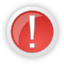
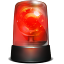
minor fixes to the UI

diff --git a/app/views/home/main-activity.html b/app/views/home/main-activity.html
@@ -5,44 +5,46 @@
       <span i18n="mainActivities"></span>
     </accordion-heading>
 
-      <div class="col-md-3 btn">
-        <a ui-sref="stockCountHome">
-          <img src="images/dashboard-icons/stock-count.png" class="img-rounded">
-          <span i18n="stockCount" class="main-activity-link"></span>
-        </a>
-      </div>
+    <div class="container-fluid">
+      <div class="row">
+        <div class="col-md-3 btn">
+          <a ui-sref="stockCountHome">
+            <img src="images/dashboard-icons/stock-count.png" class="img-rounded">
+            <span i18n="stockCount" class="main-activity-link"></span>
+          </a>
+        </div>
 
-      <div class="col-md-3 btn">
-        <a ui-sref="stockCountStepForm">
-          <img src="images/dashboard-icons/add-stock-count.png" class="img-rounded">
-          <span i18n="addStockCount" class="main-activity-link"></span>
-        </a>
-      </div>
+        <div class="col-md-3 btn">
+          <a ui-sref="stockCountStepForm">
+            <img src="images/dashboard-icons/add-stock-count.png" class="img-rounded">
+            <span i18n="addStockCount" class="main-activity-link"></span>
+          </a>
+        </div>
 
-      <div class="col-md-3 btn">
-        <a ui-sref="wasteCountForm">
-          <img src="images/dashboard-icons/add-waste-count.png" class="img-rounded">
-          <span i18n="addWasteCount" class="main-activity-link"></span>
-        </a>
-      </div>
+        <div class="col-md-3 btn">
+          <a ui-sref="wasteCountForm">
+            <img src="images/dashboard-icons/add-waste-count.png" class="img-rounded">
+            <span i18n="addWasteCount" class="main-activity-link"></span>
+          </a>
+        </div>
 
-      <div class="col-md-3 btn">
-        <a ui-sref="broadcastStockOut">
-        <span>
-          <i class="fa fa-exclamation-circle fa-4x alert-danger" style="background-color: transparent"></i>
-        </span>
-          <span i18n="stockOutBroadcast" class="main-activity-link"></span>
-        </a>
-      </div>
+        <div class="col-md-3 btn">
+          <a ui-sref="broadcastStockOut">
+            <img src="images/dashboard-icons/stock-out-broadcast.png" class="img-rounded">
+            <span i18n="stockOutBroadcast" class="main-activity-link"></span>
+          </a>
+        </div>
 
-      <div class="col-md-3 btn">
-        <a ui-sref="syncStockCount.detail">
+        <div class="col-md-3 btn">
+          <a ui-sref="syncStockCount.detail">
         <span>
           <i class="fa fa-cloud fa-4x"></i>
         </span>
-          <span i18n="syncStockCount" class="main-activity-link"></span>
-        </a>
+            <span i18n="syncStockCount" class="main-activity-link"></span>
+          </a>
+        </div>
       </div>
+    </div>
 
   </accordion-group>
 
@@ -51,29 +53,31 @@
       <span><i class="fa fa-tasks"></i></span>
       <span i18n="more"></span>
     </accordion-heading>
-    <div class="col-md-12">
+    <div class="container-fluid">
+      <div class="row">
 
-      <div class="col-md-3 btn">
-        <a ui-sref="appConfig.edit">
-          <img src="images/dashboard-icons/app-config.png" class="img-rounded">
-          <span i18n="appConfig" class="main-activity-link"></span>
-        </a>
+        <div class="col-md-3 btn">
+          <a ui-sref="appConfig.edit">
+            <img src="images/dashboard-icons/app-config.png" class="img-rounded">
+            <span i18n="appConfig" class="main-activity-link"></span>
+          </a>
+        </div>
+
+        <div class="col-md-3 btn">
+          <a ui-sref="counterSamples">
+            <img src="images/dashboard-icons/counter-samples.png" class="img-rounded">
+            <span i18n="counterSample" class="main-activity-link"></span>
+          </a>
+        </div>
+
+        <div class="col-md-3 btn">
+          <a ui-sref="clearStorage">
+            <i class="fa fa-trash-o fa-4x btn-danger"></i>
+            <span i18n="clearStorage" class="main-activity-link"></span>
+          </a>
+        </div>
+
       </div>
-
-      <div class="col-md-3 btn">
-        <a ui-sref="counterSamples">
-          <img src="images/dashboard-icons/counter-samples.png" class="img-rounded">
-          <span i18n="counterSample" class="main-activity-link"></span>
-        </a>
-      </div>
-
-      <div class="col-md-3 btn">
-        <a ui-sref="clearStorage">
-          <i class="fa fa-trash-o fa-5-3x btn-danger"></i>
-          <span i18n="clearStorage" class="main-activity-link"></span>
-        </a>
-      </div>
-
     </div>
 
   </accordion-group>

diff --git a/app/styles/main.css b/app/styles/main.css
@@ -178,5 +178,6 @@ input[type=number]::-webkit-inner-spin-button, input[type=number]::-webkit-outer
     cursor: pointer;
 }
 .main-activity-link{
-    display: block
+    display: block;
+    word-wrap: break-word;
 }
